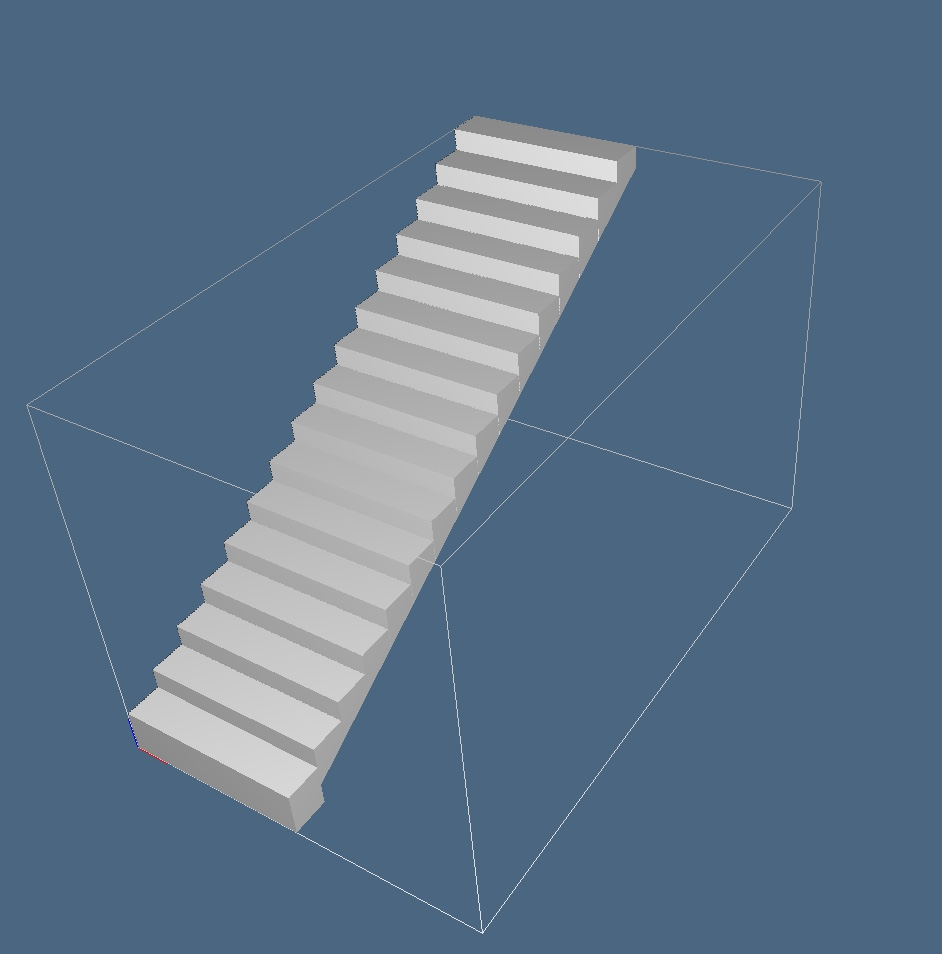
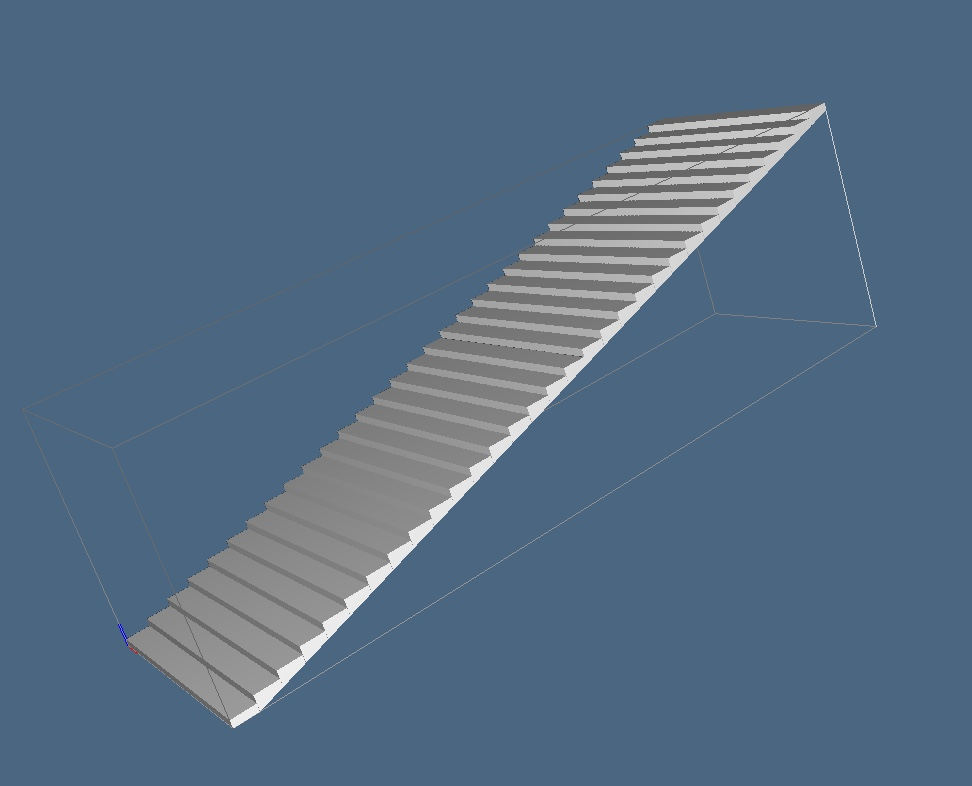
bugs fix notebook

Changed region(s): [[0.1231, 0.1221, 0.862, 0.9466], [0.862, 0.2748, 0.8928, 0.3053]]

diff --git a/2016-10-28/workshop_03.py b/2016-10-28/workshop_03.py
@@ -12,8 +12,8 @@ def create_straight_stairs(width, tread, riser, nStep):
 	"""
 	
 	xStep = MKPOL([[[tread, 0],[tread, riser*2], [tread*2, riser*2], [tread*2, riser]], [[1,2,3,4]], None])
-
 	step = PROD([QUOTE([width]), xStep])
+
 
 	firstStep = CUBOID([width,tread,riser])
 
@@ -44,19 +44,18 @@ def ggpl_straight_stairs(dx, dy, dz):
 	yStep = 1	#dimension of single step
 	xStep = dx 	#dimension of single step, if you want to make this param editable, you can make xStep=dx
 	
-	box = SKEL_1(CUBOID([dx,dy,dz]))
-
 	nStep = int(dy/yStep)
 	zStep = (float(dz)/float(nStep))
 
 
 	stairs = create_straight_stairs(xStep, yStep, zStep, nStep)
 	
+	box = SKEL_1(BOX([1,2,3])(stairs))
 
 	VIEW(STRUCT([stairs, box]))
 
 #---------end function--------------------------------------------------
 
 
-ggpl_straight_stairs(2,3,5)
+ggpl_straight_stairs(5,16,20)
 
